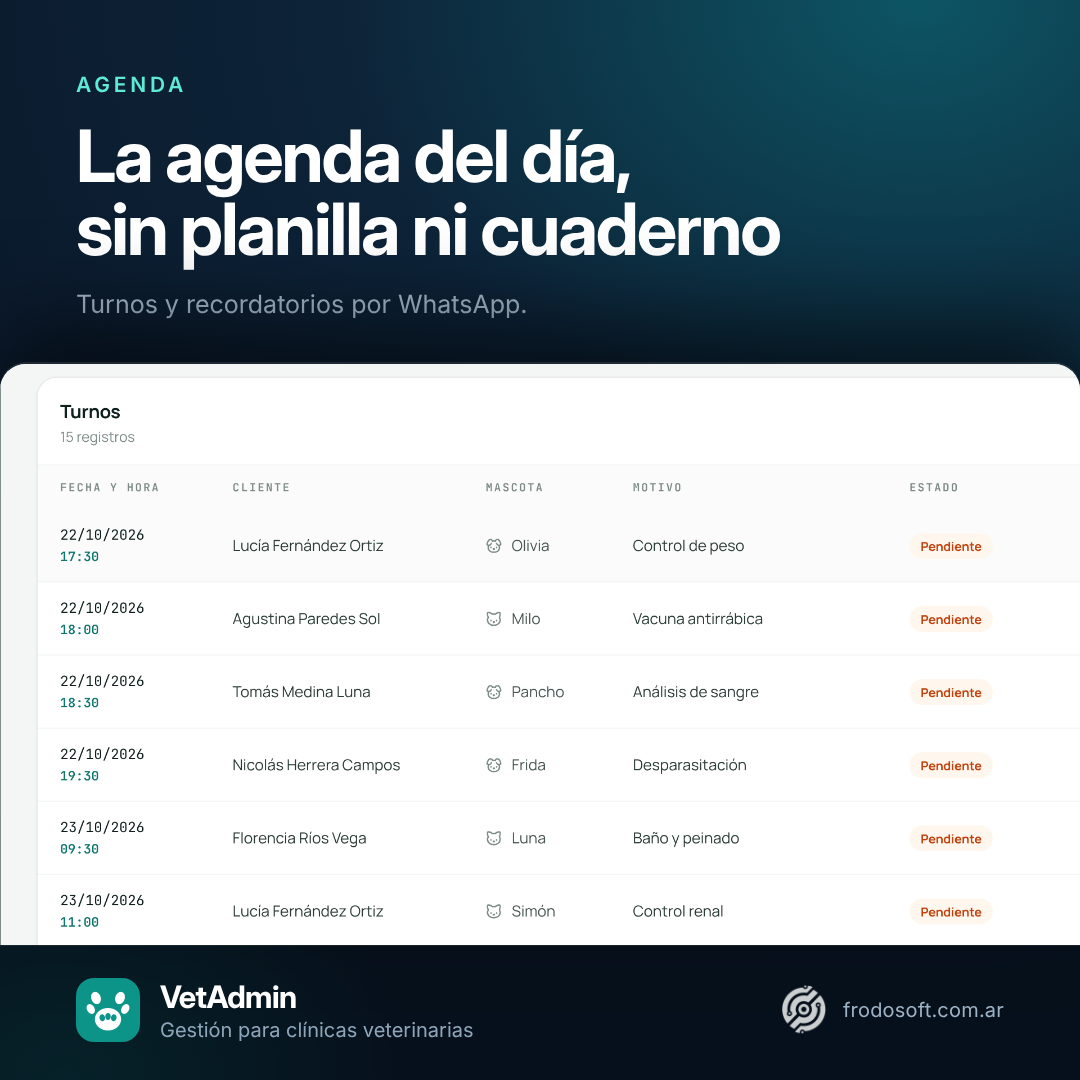
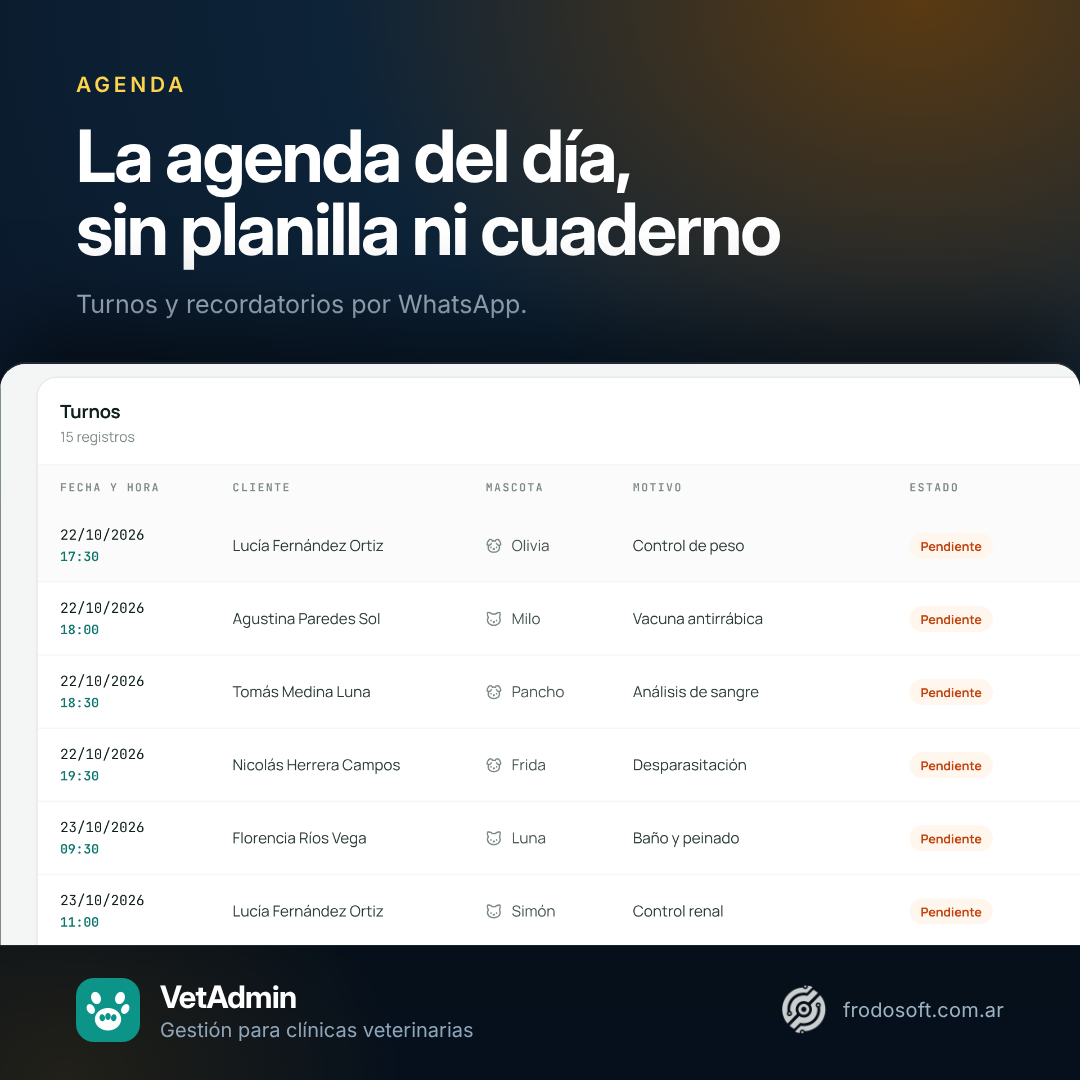
Instagram: set de feed de Kinetic y VetAdmin, y acento por producto
VetAdmin pasa a ambar y Kinetic queda en teal, en las piezas, en la
landing y en el mockup del precio.

Claude-Session: https://claude.ai/code/session_011G1gYd4Hy8R2LKaVCLaYAh

Changed region(s): [[0.4583, 0.0, 1.0, 0.275], [0.0, 0.9472, 0.1222, 1.0], [0.0611, 0.0611, 0.1833, 0.0917]]

diff --git a/instagram/README.md b/instagram/README.md
@@ -1,0 +1,19 @@
+# Piezas para el feed de Instagram
+
+Cuadradas, 1080×1080, en orden de carrusel. Capturas de las apps reales con
+datos inventados.
+
+| Archivo | Pieza |
+|---|---|
+| `feed/kinetic-1-ficha.png` | La ficha de cada paciente, completa |
+| `feed/kinetic-2-facturacion.png` | Factura a ARCA sin salir de la app |
+| `feed/kinetic-3-cierre.png` | Se adapta a cómo trabaja tu consultorio |
+| `feed/vetadmin-1-ficha.png` | Toda la ficha de cada paciente, en una pantalla |
+| `feed/vetadmin-2-turnos.png` | La agenda del día, sin planilla ni cuaderno |
+| `feed/vetadmin-3-ventas.png` | Lo que entró y lo que falta cobrar, al día |
+| `feed/vetadmin-4-movil.png` | La clínica entera, también en el teléfono |
+| `feed/vetadmin-5-cierre.png` | Se adapta a cómo trabaja tu veterinaria |
+
+Cada app tiene su color: Kinetic en teal, VetAdmin en ámbar. Las de VetAdmin
+se regeneran desde `marketing/mockups/` del repo VetAdmin; las de Kinetic
+están retocadas sobre la imagen (el generador original se perdió).
